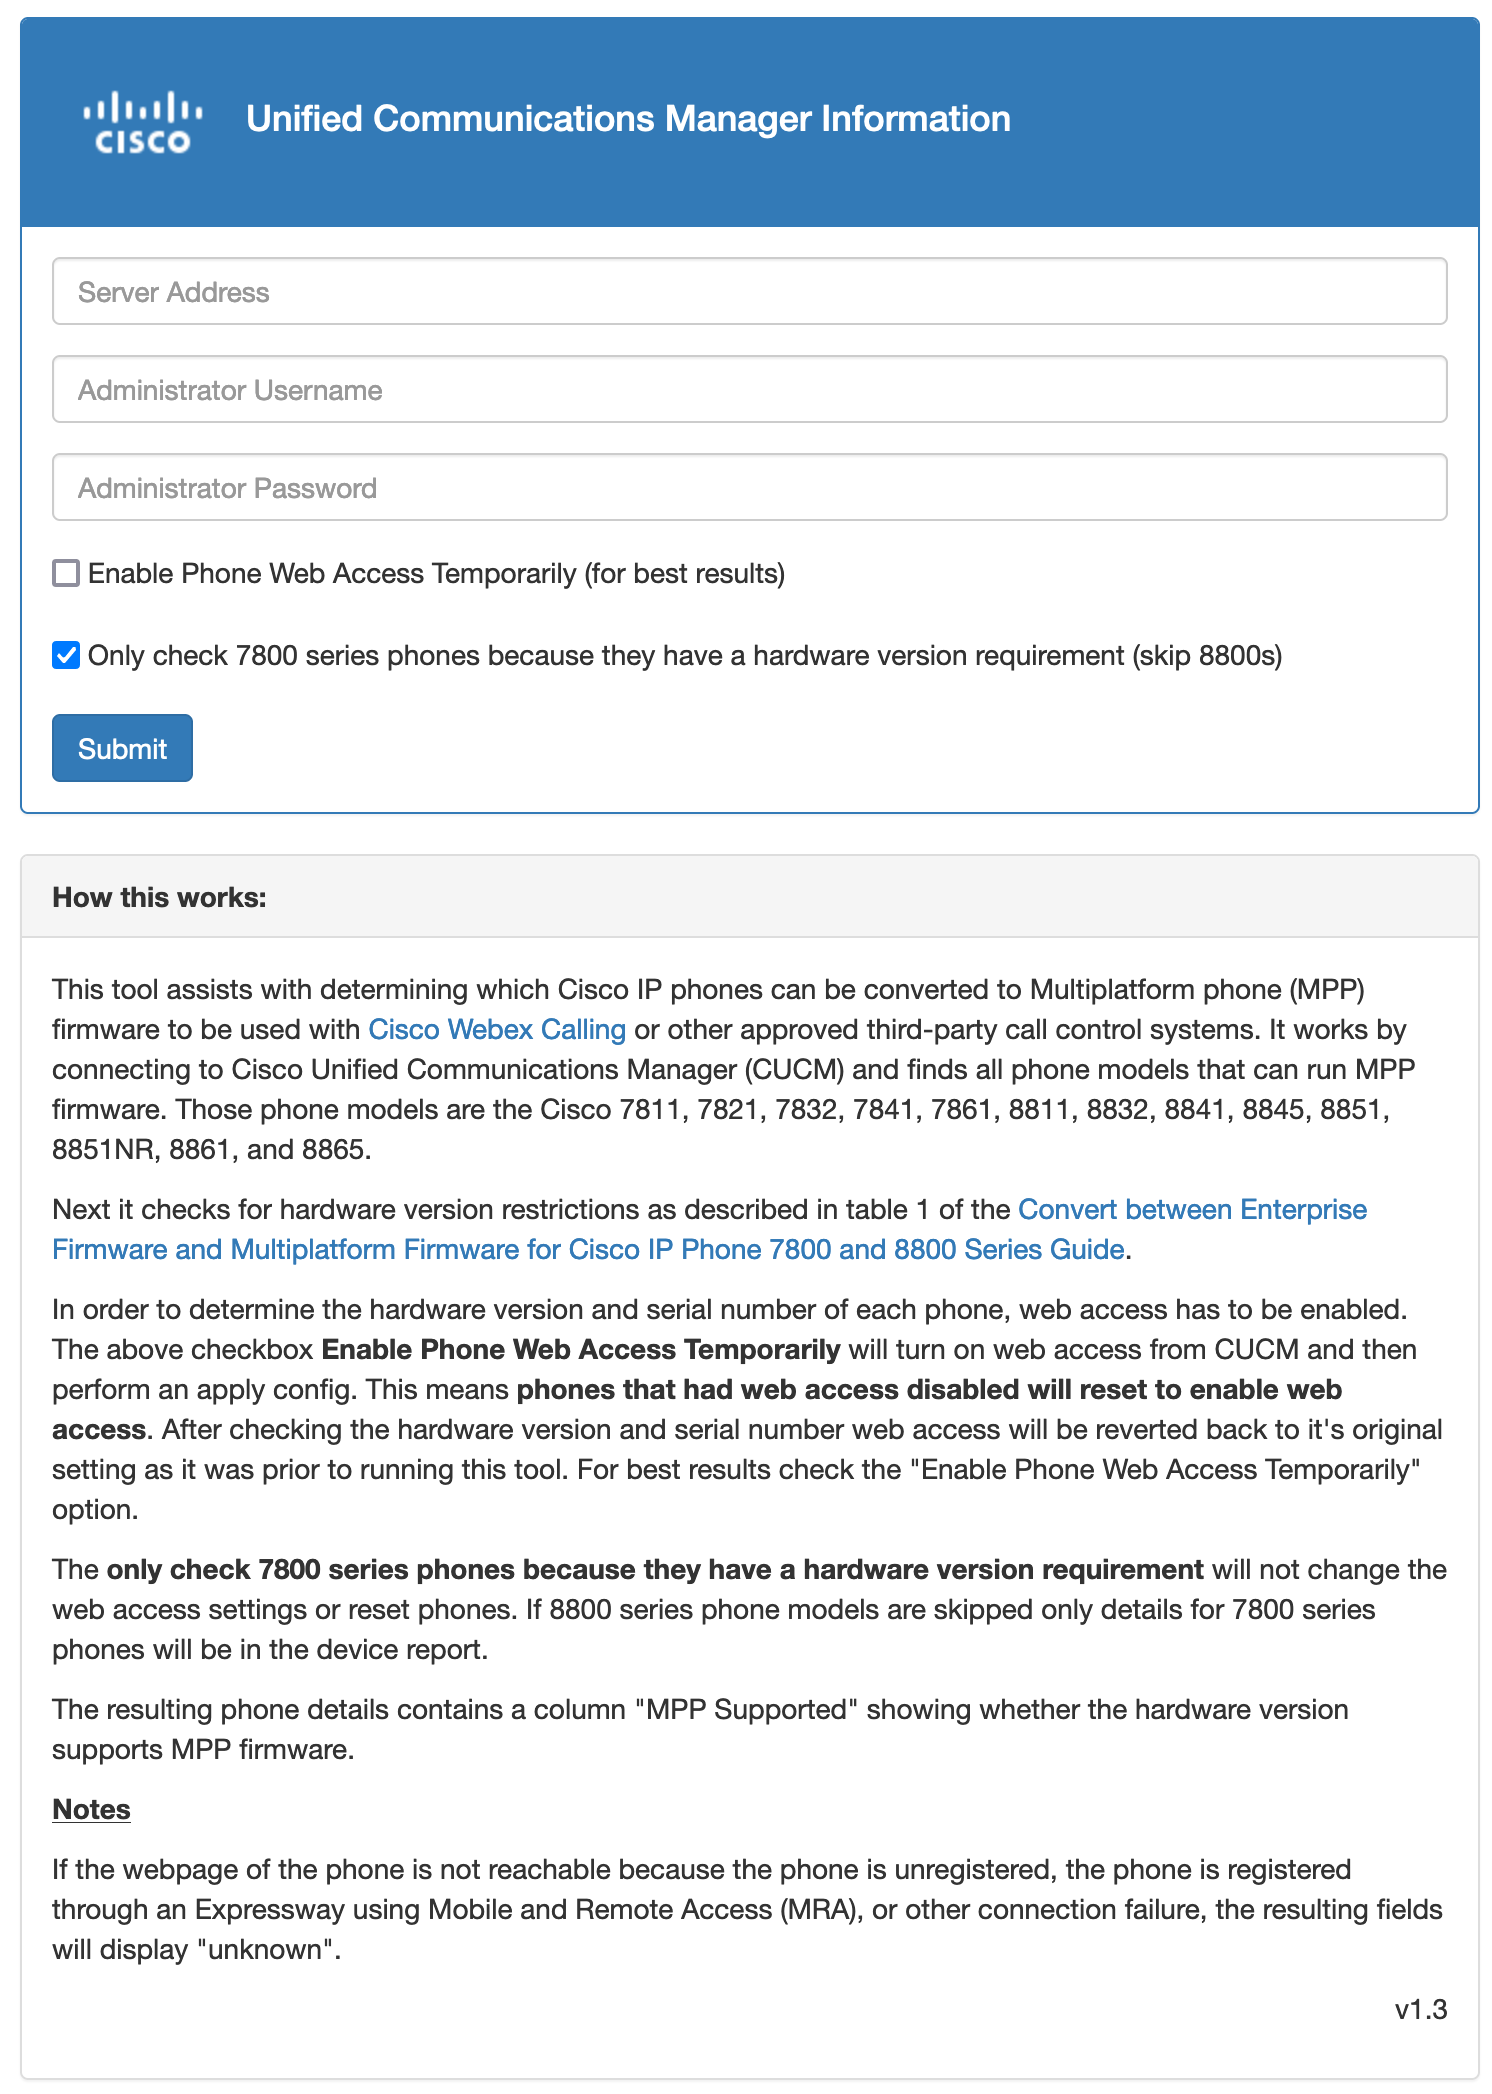
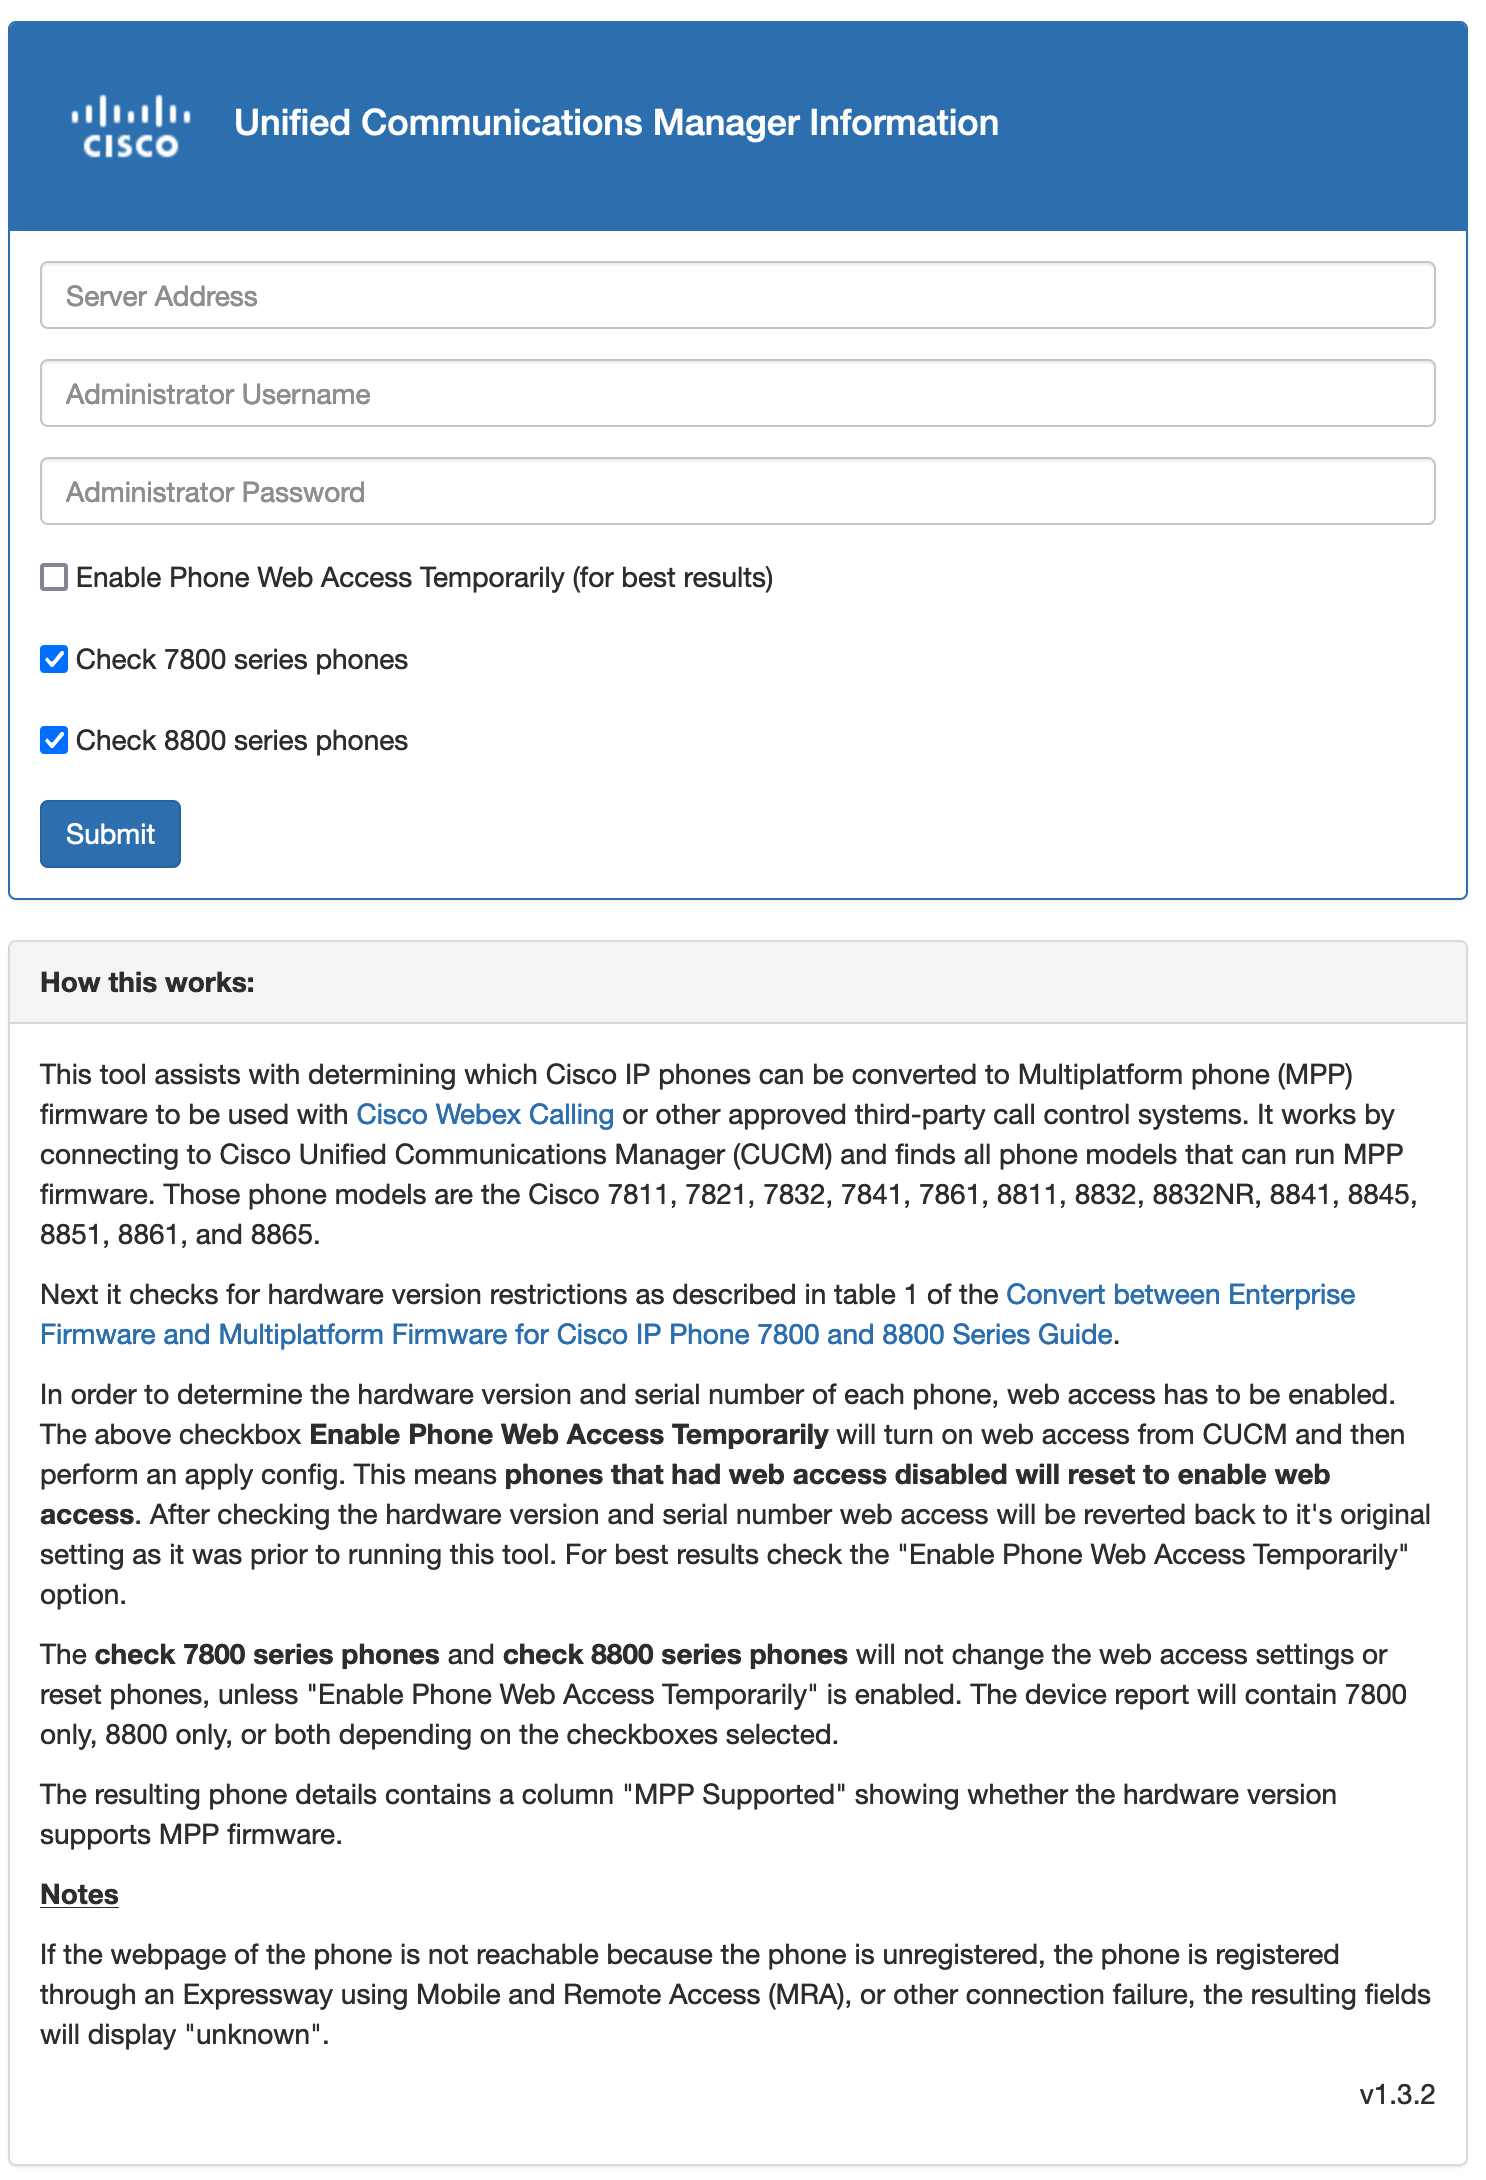
Updated readme with new updates

diff --git a/readme.md b/readme.md
@@ -14,9 +14,10 @@ There is now a standalone executable tool that can be given to customers that au
 
 ![alt-text](readme_images/output_report.png "Output Report")
 
-This tool assists with determining which Cisco IP phones can be converted to Multiplatform phone (MPP) firmware to be used with Cisco Webex Calling or other approved third-party call control systems. It works by connecting to Cisco Unified Communications Manager (CUCM) and finds all phone models that can run MPP firmware. Those phone models are the Cisco 7811, 7821, 7832, 7841, 7861, 8811, 8832, 8841, 8845, 8851, 8851NR, 8861, and 8865.
-Next it checks for hardware version restrictions as described in table 1 of the Convert between Enterprise Firmware and Multiplatform Firmware for Cisco IP Phone 7800 and 8800 Seri....
+This tool assists with determining which Cisco IP phones can be converted to Multiplatform phone (MPP) firmware to be used with Cisco Webex Calling or other approved third-party call control systems. It works by connecting to Cisco Unified Communications Manager (CUCM) and finds all phone models that can run MPP firmware. Those phone models are the Cisco 7811, 7821, 7832, 7841, 7861, 8811, 8832, 8832NR, 8841, 8845, 8851, 8861, and 8865.
+Next it checks for hardware version restrictions as described in table 1 of the Convert between Enterprise Firmware and Multiplatform Firmware for Cisco IP Phone 7800 and 8800 Series Guide.
 In order to determine the hardware version and serial number of each phone, web access has to be enabled. The above checkbox Enable Phone Web Access Temporarily will turn on web access from CUCM and then perform an apply config. This means phones that had web access disabled will reset to enable web access. After checking the hardware version and serial number web access will be reverted back to it's original setting as it was prior to running this tool. For best results check the "Enable Phone Web Access Temporarily" option.
+The check 7800 series phones and check 8800 series phones will not change the web access settings or reset phones, unless "Enable Phone Web Access Temporarily" is enabled. The device report will contain 7800 only, 8800 only, or both depending on the checkboxes selected.
 The resulting phone details contains a column "MPP Supported" showing whether the hardware version supports MPP firmware.
 
 ## Notes
